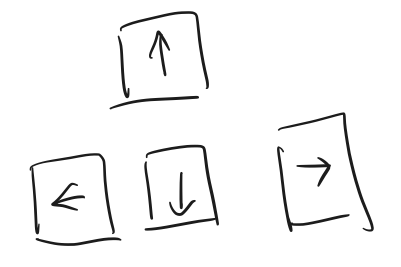
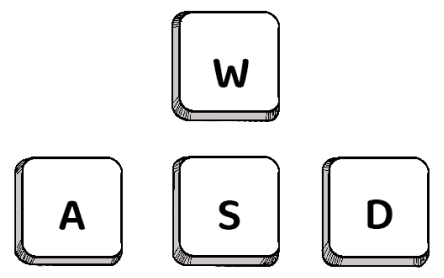
more setting

diff --git a/core/src/root/SettingMode.java b/core/src/root/SettingMode.java
@@ -6,7 +6,6 @@ import com.badlogic.gdx.Screen;
 import com.badlogic.gdx.assets.AssetManager;
 import com.badlogic.gdx.graphics.Texture;
 import com.badlogic.gdx.graphics.g2d.TextureRegion;
-import com.badlogic.gdx.scenes.scene2d.Actor;
 import com.badlogic.gdx.scenes.scene2d.InputEvent;
 import com.badlogic.gdx.scenes.scene2d.Stage;
 import com.badlogic.gdx.scenes.scene2d.ui.ImageButton;
@@ -14,36 +13,32 @@ import com.badlogic.gdx.scenes.scene2d.utils.ClickListener;
 import com.badlogic.gdx.scenes.scene2d.utils.TextureRegionDrawable;
 import util.ScreenListener;
 
-import java.util.ArrayList;
-
 
 public class SettingMode  extends Mode implements Screen{
 
 
     public static final int INTO_SETTING= 15;
-    private static final String[] opening = {"cutscenes/opening-1.png", "cutscenes/opening-2.png",
-            "cutscenes/opening-3.png", "cutscenes/opening-4.png", "cutscenes/opening-5.png"};
-    private static final String RIGHT = "cutscenes/skipButton.png";
+    private static final String RIGHT = "ui/right.png";
     private static final String BKG = "ui/grey.png";
     private static final String LOGO = "ui/game-logo.png";
     private static final String TITLE = "ui/setting.png";
-    private static final String ON = "ui/on.png";
-    private static final String OFF = "ui/off.png";
+    private static final String SLIDERBKG = "ui/on.png";
+    private static final String SLIDERKNOB = "ui/off.png";
     private static final String SOUND = "ui/sound.png";
     private static final String CONTROLS = "ui/controls.png";
     private static final String SETTING_SELECT = "ui/setting-select.png";
     private static final String KEYBOARD_ARROW = "ui/keyboard-arrows.png";
     private static final String KEYBOARD_WASD = "ui/keyboardWasd.png";
     private static final String MUSIC = "ui/music.png";
-    private static final String LEFT = "ui/setting-next.png";
+    private static final String LEFT = "ui/left.png";
     private static final String BACK = "ui/back.png";
 
 
     private TextureRegion logoTexture;
     private TextureRegion background;
     private TextureRegion titleTexture;
-    private TextureRegion onTexture;
-    private TextureRegion offTexture;
+    private TextureRegion SliderBkgTexture;
+    private TextureRegion knobTexture;
     private TextureRegion soundTexture;
     private TextureRegion selectTexture;
     private TextureRegion keyboardArrowTexture;
@@ -51,6 +46,7 @@ public class SettingMode  extends Mode implements Screen{
     private TextureRegion controlsTexture;
     private TextureRegion musicTexture;
     private TextureRegion leftTexture;
+    private TextureRegion rightTexture;
     private TextureRegion backTexture;
 
     private final AssetManager manager;
@@ -59,7 +55,9 @@ public class SettingMode  extends Mode implements Screen{
     private ScreenListener listener;
     private final boolean active;
     private ImageButton backButtom;
-    private ImageButton nextButtom;
+    private ImageButton leftButtom;
+    private ImageButton rightButtom;
+
     private SettingMode setting;
 
     private boolean musicOn = true;
@@ -150,6 +148,8 @@ public class SettingMode  extends Mode implements Screen{
         canvas.drawUI(controlsTexture, canvas.getWidth()*0.25f, canvas.getHeight()*0.35f, 1.0f);
         if (arrow){
             canvas.drawUI(keyboardArrowTexture, canvas.getWidth()*0.6f, canvas.getHeight()*0.25f, 0.5f);
+        }else {
+            canvas.drawUI(keyboardWasdtexture, canvas.getWidth()*0.6f, canvas.getHeight()*0.25f, 0.5f);
         }
         canvas.actStage(stage);
         canvas.end();
@@ -163,8 +163,8 @@ public class SettingMode  extends Mode implements Screen{
         loadAsset(BKG, Texture.class, manager);
         loadAsset(LOGO, Texture.class, manager);
         loadAsset(TITLE, Texture.class, manager);
-        loadAsset(ON, Texture.class, manager);
-        loadAsset(OFF, Texture.class, manager);
+        loadAsset(SLIDERBKG, Texture.class, manager);
+        loadAsset(SLIDERKNOB, Texture.class, manager);
         loadAsset(CONTROLS, Texture.class, manager);
         loadAsset(KEYBOARD_ARROW, Texture.class, manager);
         loadAsset(SOUND, Texture.class, manager);
@@ -172,6 +172,7 @@ public class SettingMode  extends Mode implements Screen{
         loadAsset(BACK, Texture.class, manager);
         loadAsset(KEYBOARD_WASD, Texture.class, manager);
         loadAsset(LEFT, Texture.class, manager);
+        loadAsset(RIGHT, Texture.class, manager);
         loadAsset(MUSIC, Texture.class, manager);
         selectorAssetState = AssetState.LOADING;
     }
@@ -184,8 +185,8 @@ public class SettingMode  extends Mode implements Screen{
         background =  createTexture(manager,BKG, false);
         logoTexture = createTexture(manager, LOGO, false);
         titleTexture = createTexture(manager, TITLE, false);
-        onTexture =  createTexture(manager,ON, false);
-        offTexture = createTexture(manager, OFF, false);
+        SliderBkgTexture =  createTexture(manager, SLIDERBKG, false);
+        knobTexture = createTexture(manager, SLIDERKNOB, false);
         selectTexture = createTexture(manager, SETTING_SELECT, false);
         controlsTexture =  createTexture(manager,CONTROLS, false);
         soundTexture = createTexture(manager, SOUND, false);
@@ -193,6 +194,8 @@ public class SettingMode  extends Mode implements Screen{
         keyboardWasdtexture =  createTexture(manager,KEYBOARD_WASD, false);
         musicTexture = createTexture(manager, MUSIC, false);
         backTexture = createTexture(manager, BACK, false);
+        rightTexture = createTexture(manager, RIGHT, false);
+        leftTexture = createTexture(manager, LEFT, false);
         selectorAssetState = AssetState.COMPLETE;
     }
 
@@ -233,10 +236,40 @@ public class SettingMode  extends Mode implements Screen{
           });
          stage.addActor(backButtom);
 
+        leftButtom = createButton(leftTexture);
+        leftButtom.setPosition(canvas.getWidth()*0.4f, canvas.getHeight()*0.25f);
+        leftButtom.addListener(new ClickListener() {
+            @Override
+            public void clicked(InputEvent event, float x, float y) {
+                arrow = false;
+            }
+        });
+        stage.addActor(leftButtom);
+
+        rightButtom = createButton(rightTexture);
+        rightButtom.setPosition(canvas.getWidth()*0.05f, canvas.getHeight()*0.05f);
+        rightButtom.addListener(new ClickListener() {
+            @Override
+            public void clicked(InputEvent event, float x, float y) {
+                listener.exitScreen(setting, LoadingMode.INTO_STARTSCREEN);
+            }
+        });
+
+
         Gdx.input.setInputProcessor(stage);
 
 
     }
+
+
+    public void showLeftButton(){
+
+    }
+
+    public void showRightButton(){
+
+    }
+
 
     public void reset(GameCanvas canvas) {
         this.canvas = canvas;
